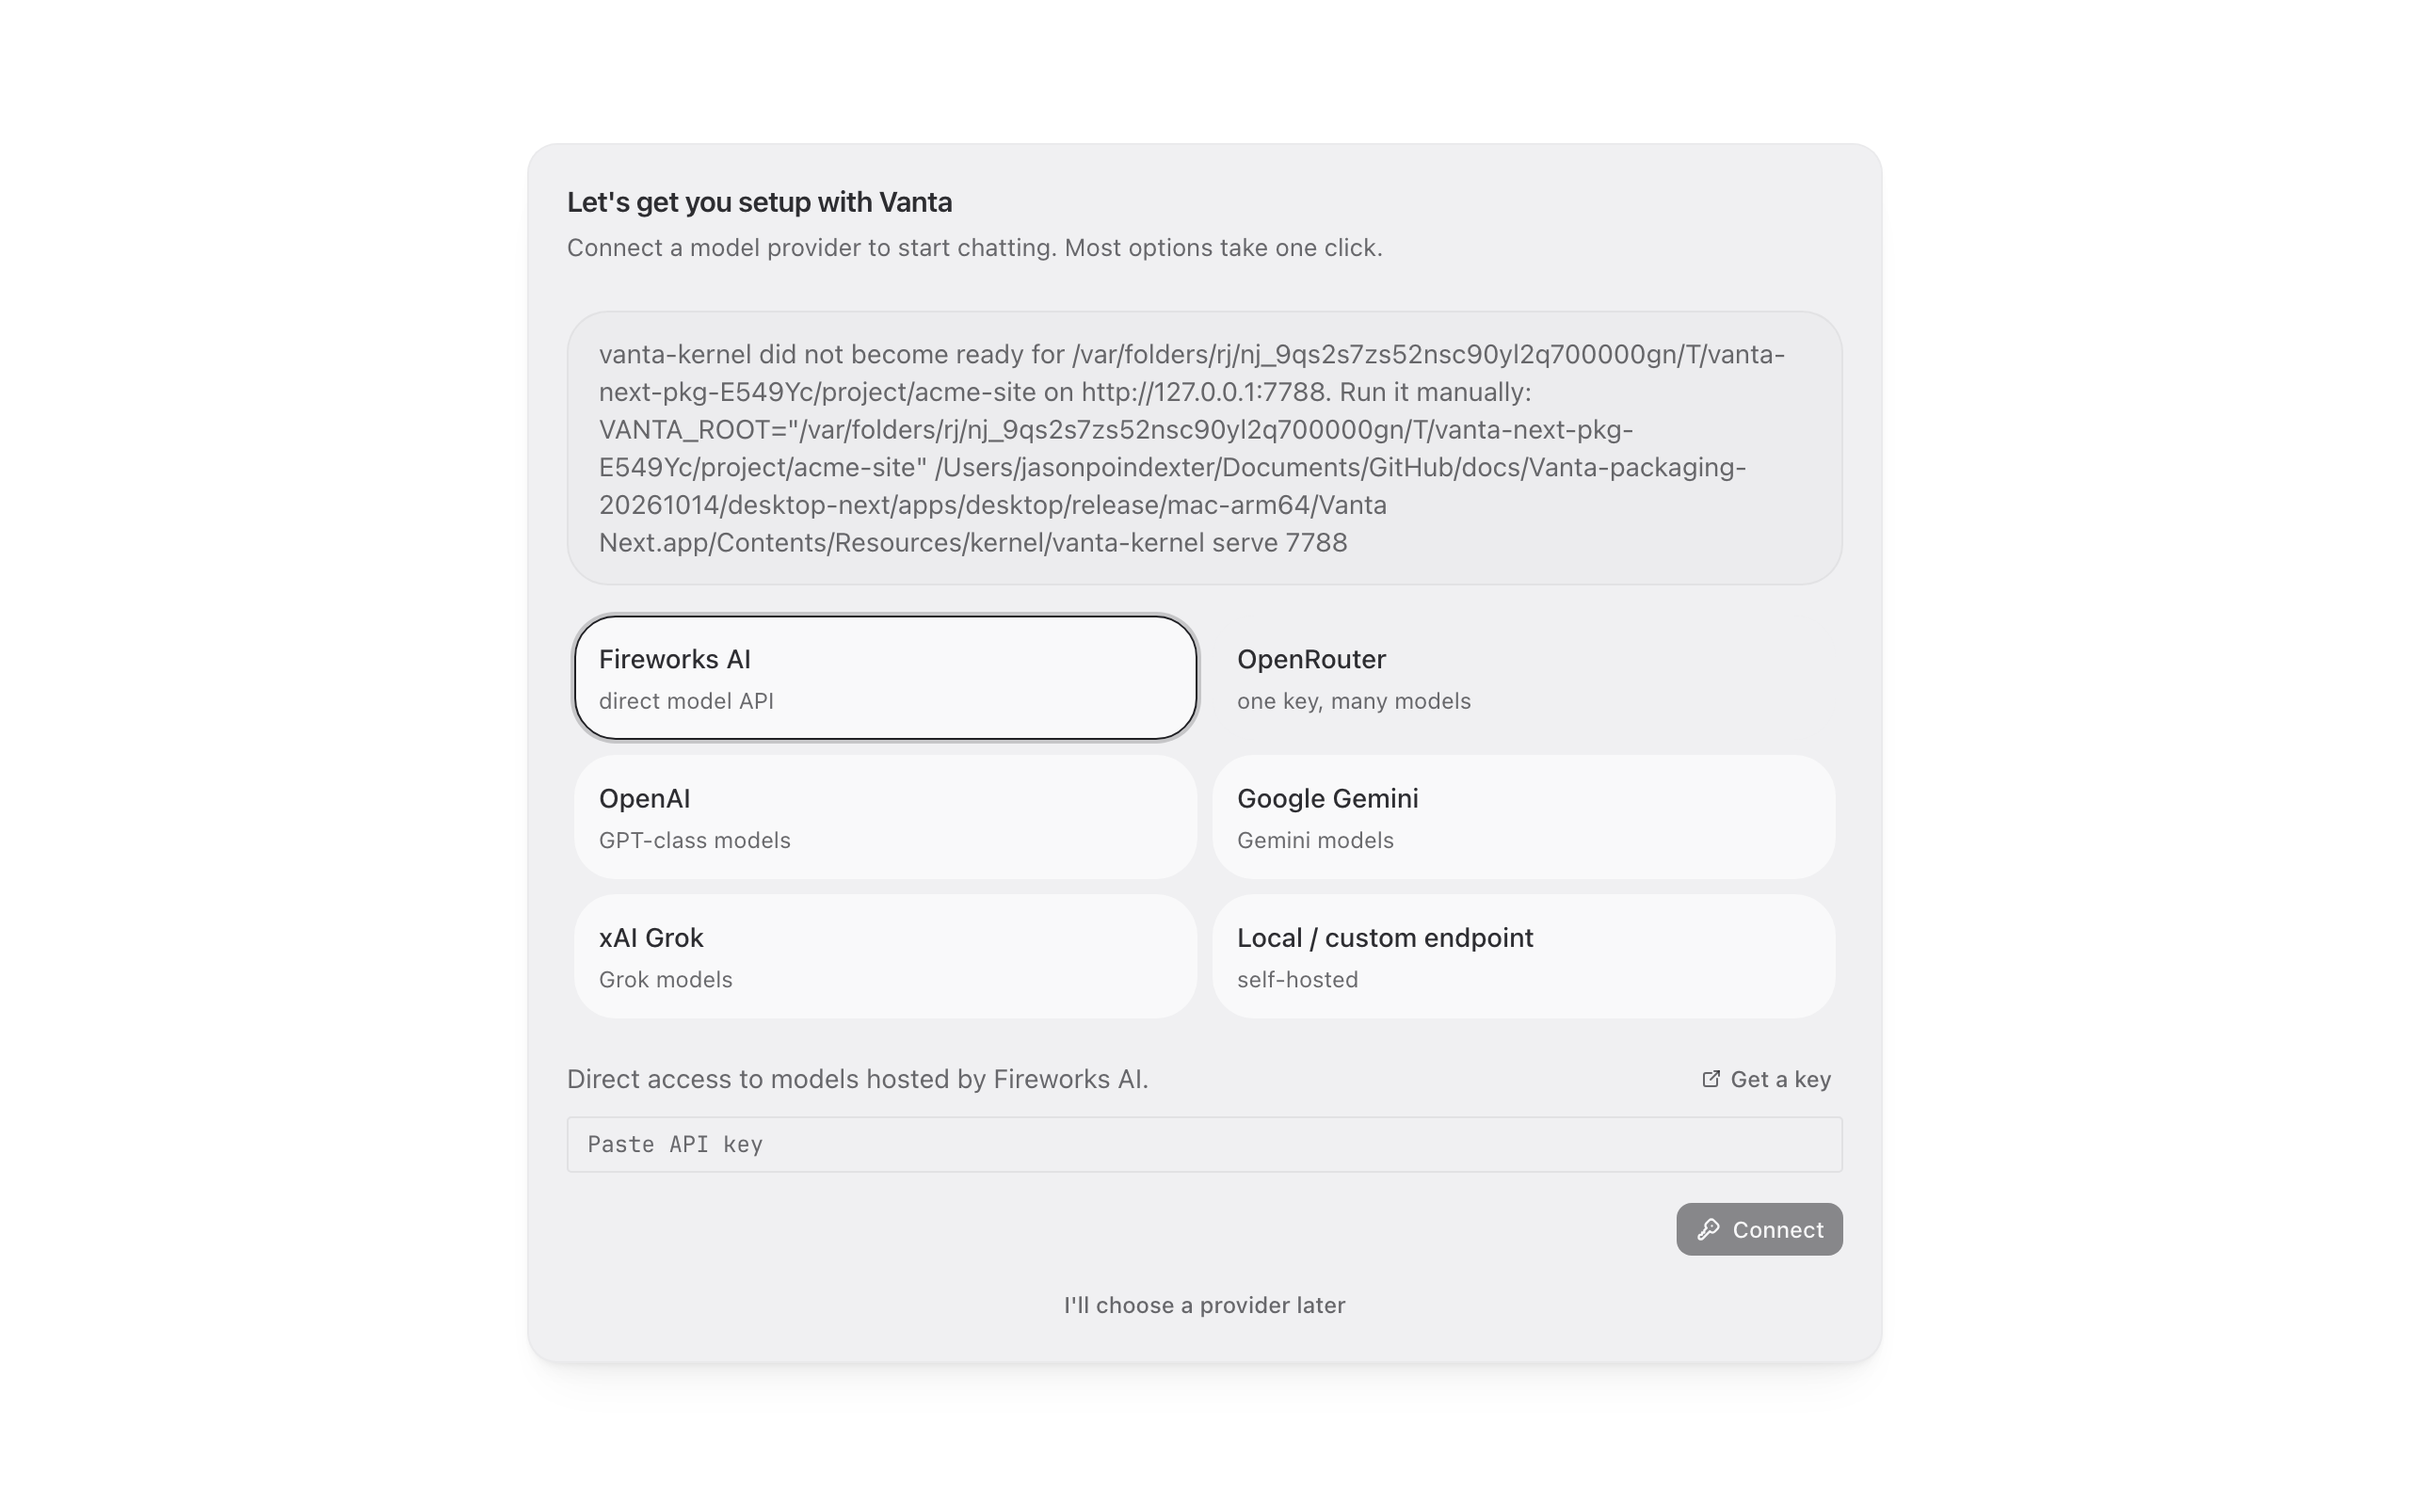
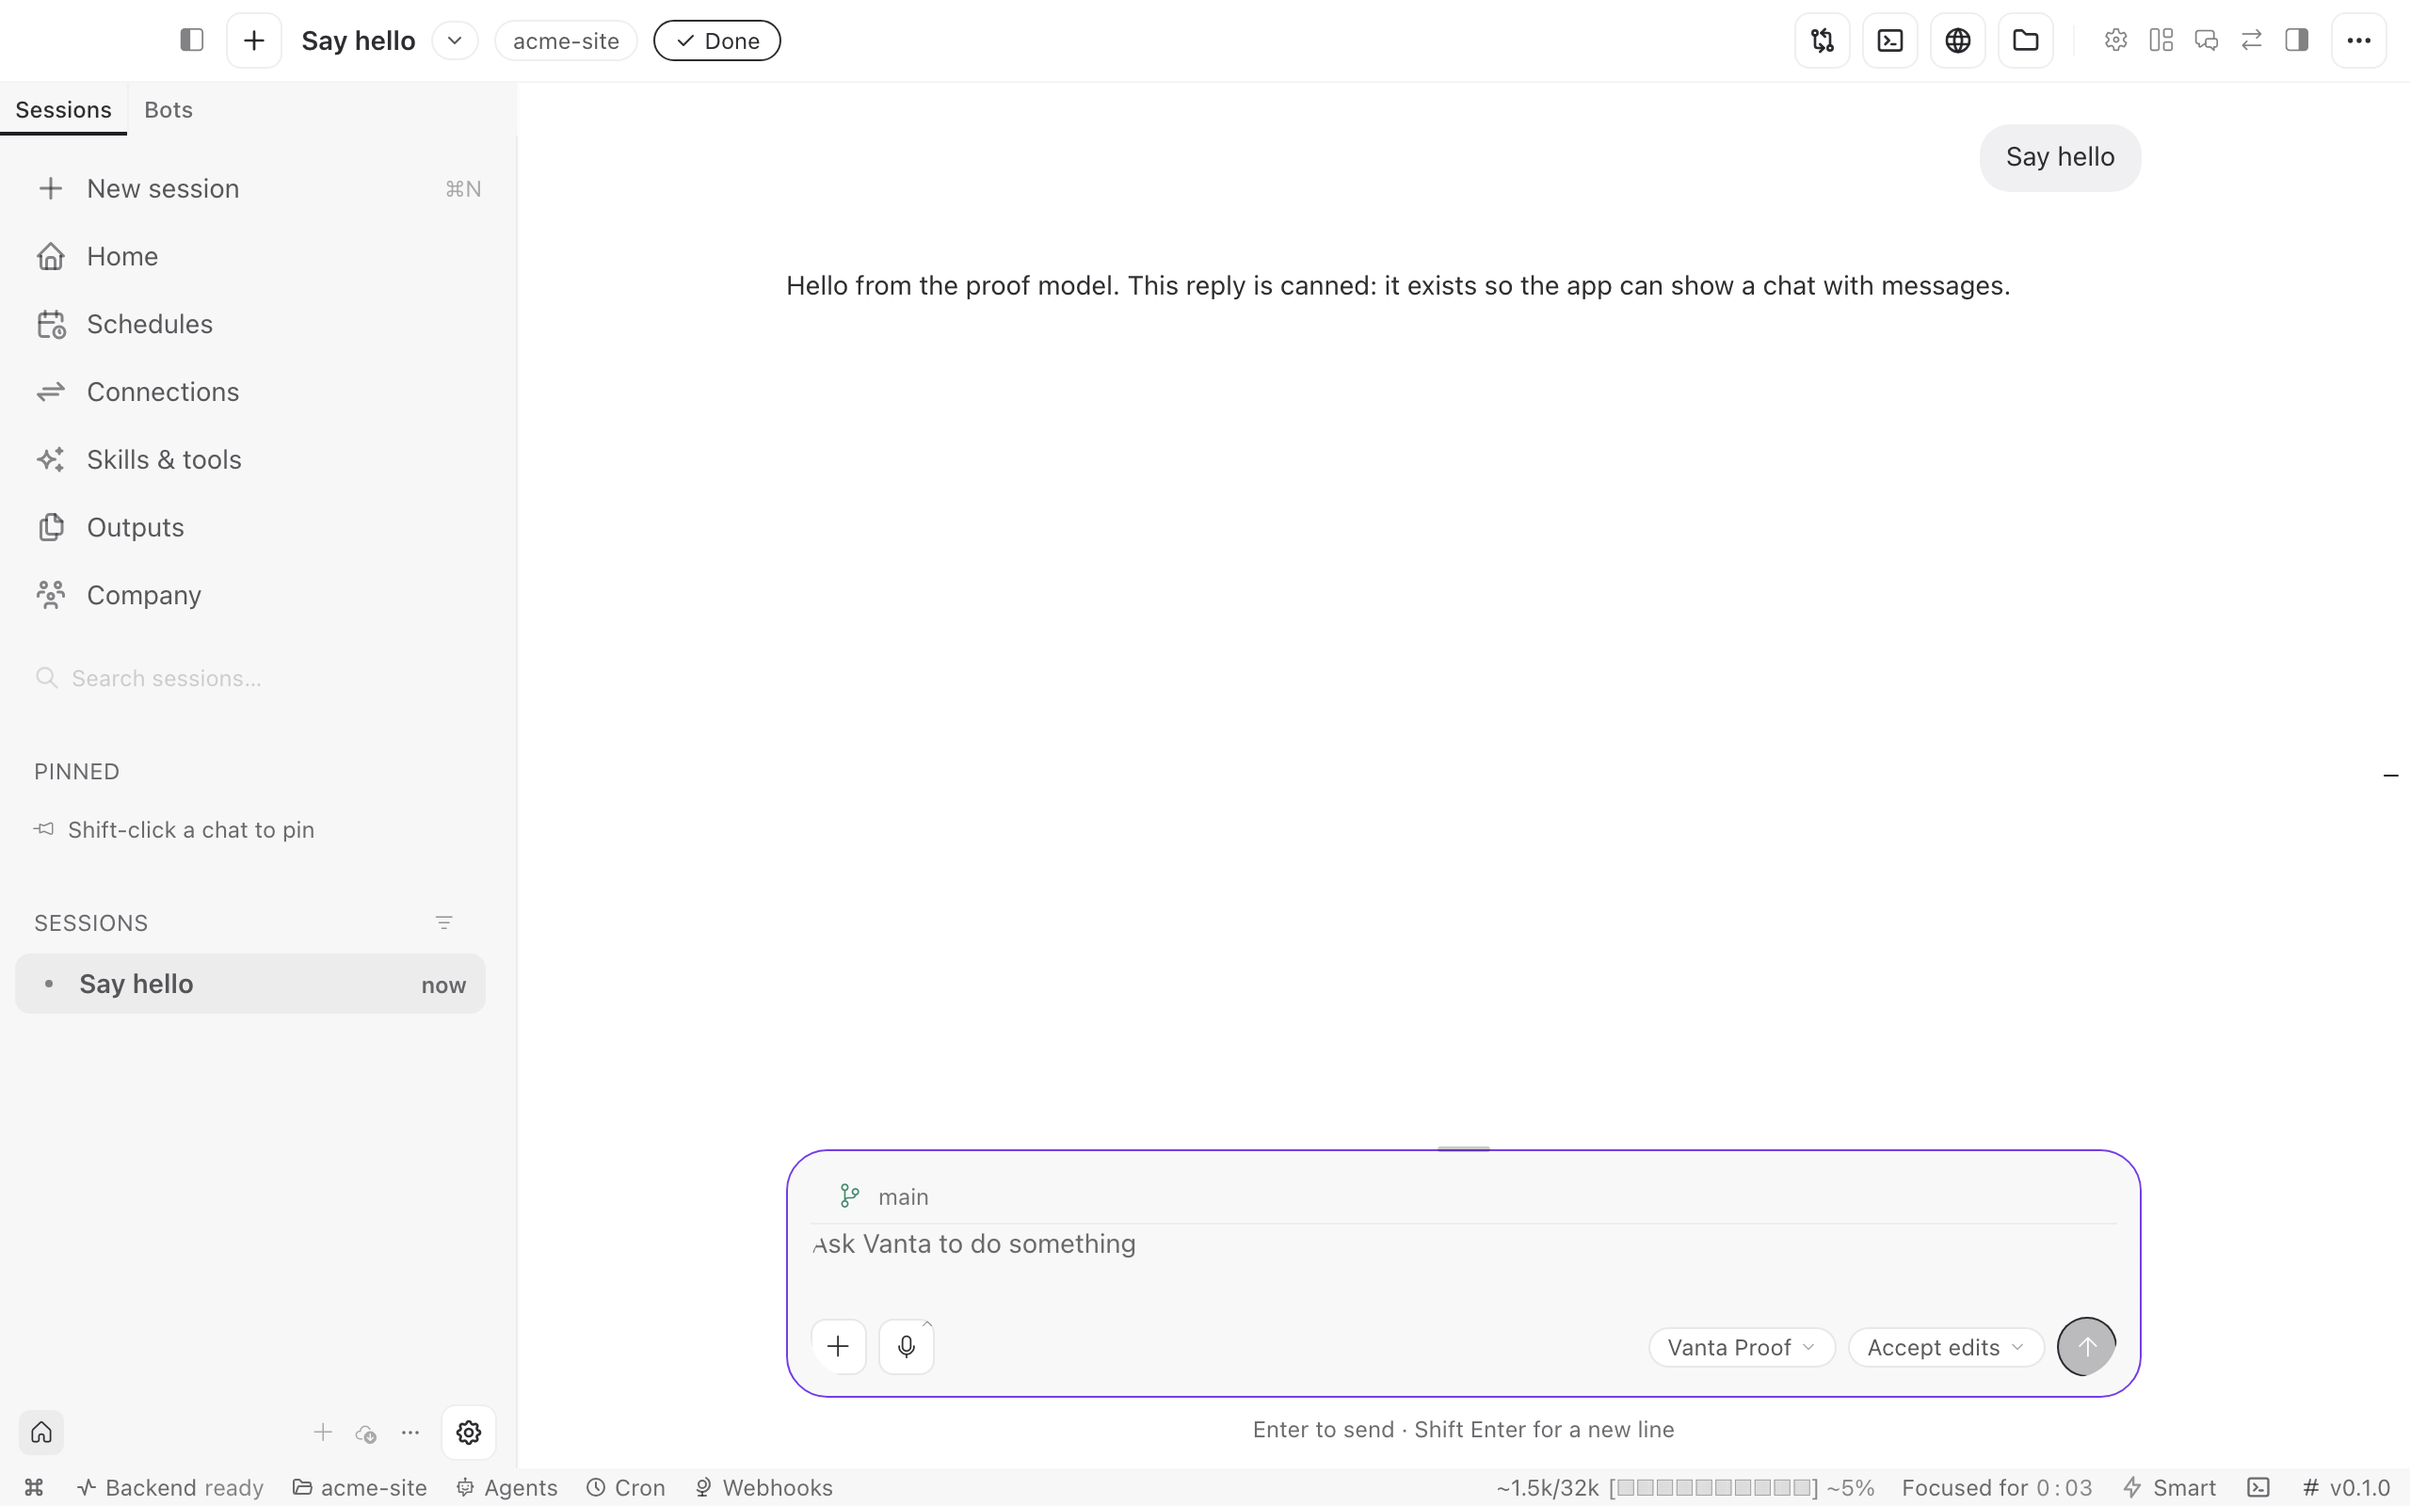
rename the desktop app to Vanta; one installed app
Display name Vanta (bundle id and userData folder unchanged). Install, proof scripts and identity tests follow the name.

diff --git a/desktop-next/apps/desktop/electron/product-identity.test.ts b/desktop-next/apps/desktop/electron/product-identity.test.ts
@@ -118,7 +118,7 @@ test('nonstable runtime pins userData before the app name can change', async ():
 })
 
 test.each([
-  [undefined, 'Vanta Next', 'vanta-next', 'latest', 'canary'],
+  [undefined, 'Vanta', 'vanta-next', 'latest', 'canary'],
   ['bundled', 'Vanta Bundled', 'vanta-next', 'latest', 'canary'],
   ['light', 'Vanta Light', 'vanta-light', 'light', 'light-canary']
 ] as const)(
@@ -300,7 +300,7 @@ test('store carries the Partner Center MSIX identity and no other variant does',
   }
 })
 
-test('the default build is displayed as Vanta Next and keeps its own userData beside the current Vanta', async (): Promise<void> => {
+test('the default build is displayed as Vanta and keeps its own userData apart from the earlier Vanta app', async (): Promise<void> => {
   const identity: ProductIdentity = await identityForVariant(undefined)
   const runtime: { applyDesktopIdentity: typeof applyDesktopIdentity } = await import('./product-identity')
   const root: string = fs.mkdtempSync(path.join(os.tmpdir(), 'identity-vanta-'))
@@ -321,8 +321,8 @@ test('the default build is displayed as Vanta Next and keeps its own userData be
       identity
     )
 
-    assert.equal(applied, 'Vanta Next')
-    assert.equal(name, 'Vanta Next')
+    assert.equal(applied, 'Vanta')
+    assert.equal(name, 'Vanta')
     assert.equal(paths.userData, path.join(root, 'VantaNext'))
     assert.notEqual(paths.userData, path.join(root, 'Vanta'))
   } finally {

diff --git a/desktop-next/apps/desktop/electron/vanta/entry.ts b/desktop-next/apps/desktop/electron/vanta/entry.ts
@@ -31,7 +31,7 @@ import {
   wireWindowEvents
 } from './window-host'
 
-app.setName('Vanta Next')
+app.setName('Vanta')
 
 const DEV_SERVER = process.env.VANTA_DESKTOP_DEV_SERVER ?? process.env.HERMES_DESKTOP_DEV_SERVER
 const argv = process.argv.slice(app.isPackaged ? 1 : 2)

diff --git a/desktop-next/docs/STATUS-2026-10-15.md b/desktop-next/docs/STATUS-2026-10-15.md
@@ -11,3 +11,7 @@ Remaining to cutover (about 15 build slices plus 4 owner-gated items). Estimate:
 Next, in order: V-028 Continuity Today, V-014 drafts, V-029/V-030 workflow ledger and run library, V-001 look capture, V-044 project handoff, V-023 canvas.
 
 Owner decisions open (Trello DN-Q): Apple signing identity, one real worker run, Google (parked), Trello/Dropbox on Connections, connector toggle semantics, offline queue across quit, both offline recovery buttons, Dock/logo confirmation, PR and footer cleanup.
+
+## 2026-10-15 one app
+
+The app is now installed as ~/Applications/Vanta.app (display name "Vanta"; bundle id studio.theft.vanta-next and the VantaNext data folder are unchanged so nothing collides with data from the earlier Vanta.app). The old /Applications/Vanta.app, the "Vanta Next" copy, stale per-worktree build outputs, three Oct-2 audit app copies, update staging and 489 temp sandboxes were moved to the Trash. The `vanta` terminal command is unchanged; `vanta-next` opens the app.
